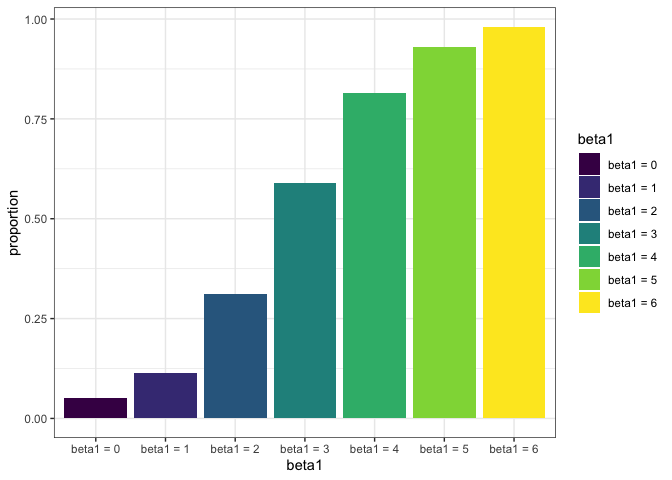
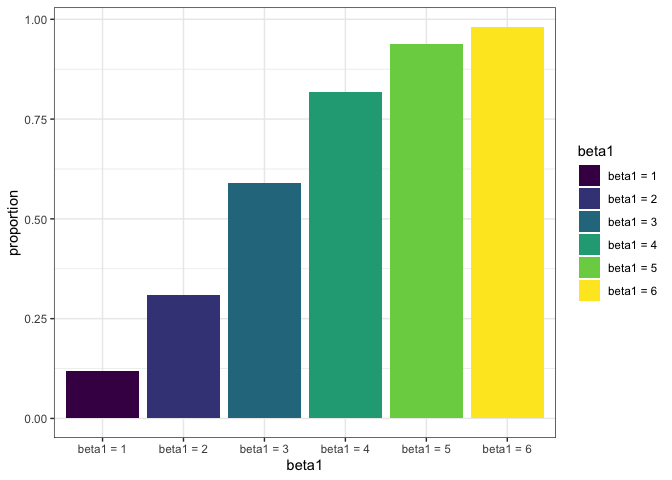
delete beta1 = 0 in problem 3

diff --git a/p8105_hw5_mz2777.md b/p8105_hw5_mz2777.md
@@ -112,7 +112,7 @@ sim_regression = function(n = 30, beta0 = 2, beta1) {
 ``` r
 # simulation
 sim_results = 
-  tibble(beta1 = c(0:6)) %>% 
+  tibble(beta1 = c(1:6)) %>% 
   mutate(
     output_list = map(.x = beta1, ~rerun(10000, sim_regression(beta1 = .x))),
     output_df = map(output_list, bind_rows)) %>% 
@@ -146,8 +146,8 @@ sim_results %>%
 
 ![](p8105_hw5_mz2777_files/figure-gfm/unnamed-chunk-8-1.png)<!-- -->
 
-**Comment**: Except beta1 = 0, average for rejected cases is higher than
-average for all cases, and they are getting closer while true beta1 is
+**Comment**: Average for rejected cases is higher than average for all
+cases, and they are getting closer while true beta1 is
 increasing.
 
 ``` r
